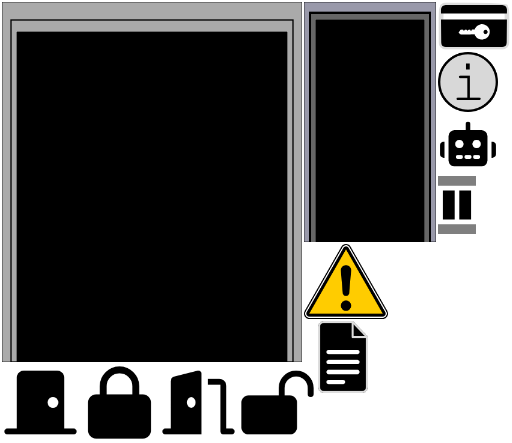
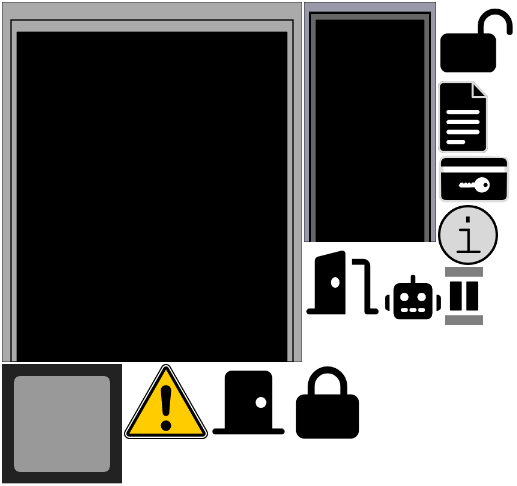
feat: towards first decor cuboid with aligned decor quad

Changed region(s): [[0.0, 0.0, 1.0, 0.9977]]

diff --git a/npc-cli/service/const.js b/npc-cli/service/const.js
@@ -201,6 +201,7 @@ export const fromDecorImgKey = /** @type {const} */ ({// 🔔 must extend when a
   'icon--robot': true,
   'icon--square': true,
   'icon--warn': true,
+  'screen--1x1': true,
 });
 
 /**

diff --git a/docs/TODO.md b/docs/TODO.md
@@ -13,6 +13,8 @@
   - 🚧 extend 301 with more decor
     - ✅ add some crates
     - 🚧 add a cuboid with a decor quad e.g. computer screen
+      - ℹ `decor quad tilt` tilts around center
+      - convert decor svg to png uses same technique as skins?
 
 - 🚧 refine chosen carousel embla-carousel
   - ✅ carousel has labels
@@ -263,6 +265,10 @@
 - ✅ avoid re-request navmesh onchange skin
 - ✅ avoid re-request navmesh onchange lights
   - maybe because assets.json is changing due to hash change?
+
+- 🚧 BUG: on add decor image i.e. decor spritesheet out-of-sync
+  - w.geomorphs.sheet.decor is synced
+  - `<Decor>` was not but fixed by editing its query
 
 - BUG: why did adding a decor cuboid in fuel break Decor
   - also would like to use a cuboid instead of wall for fuel
